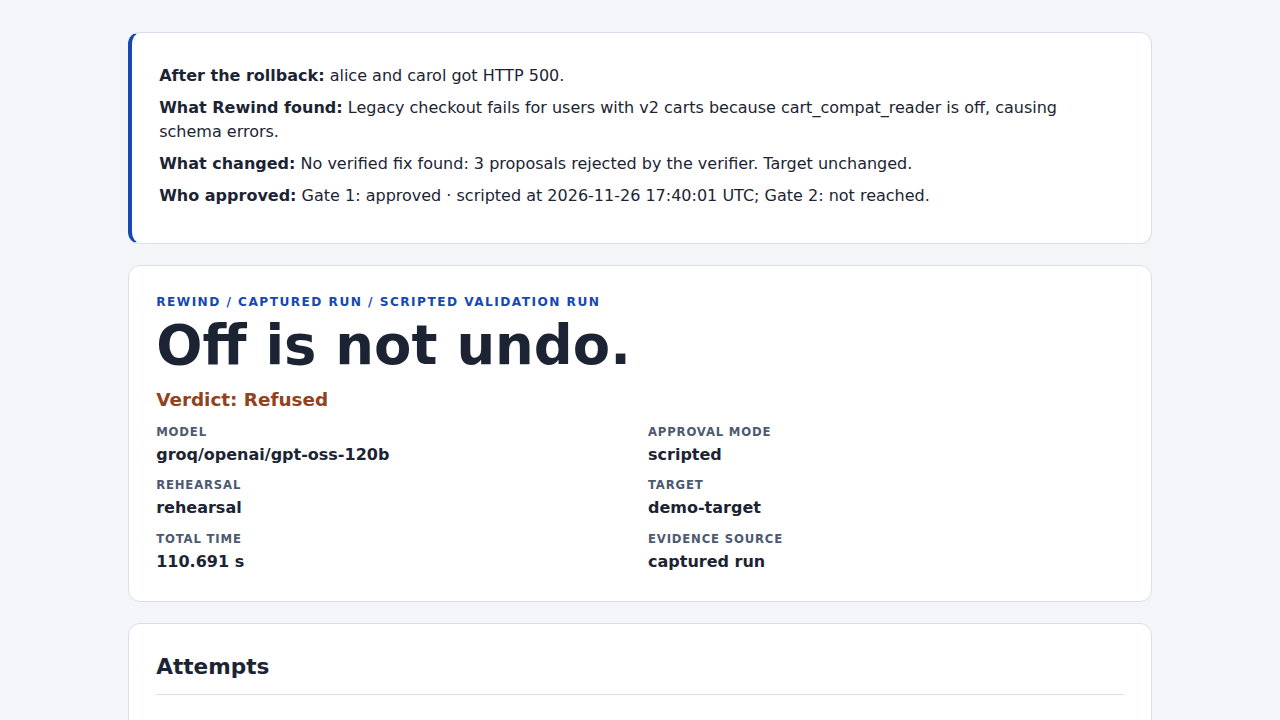
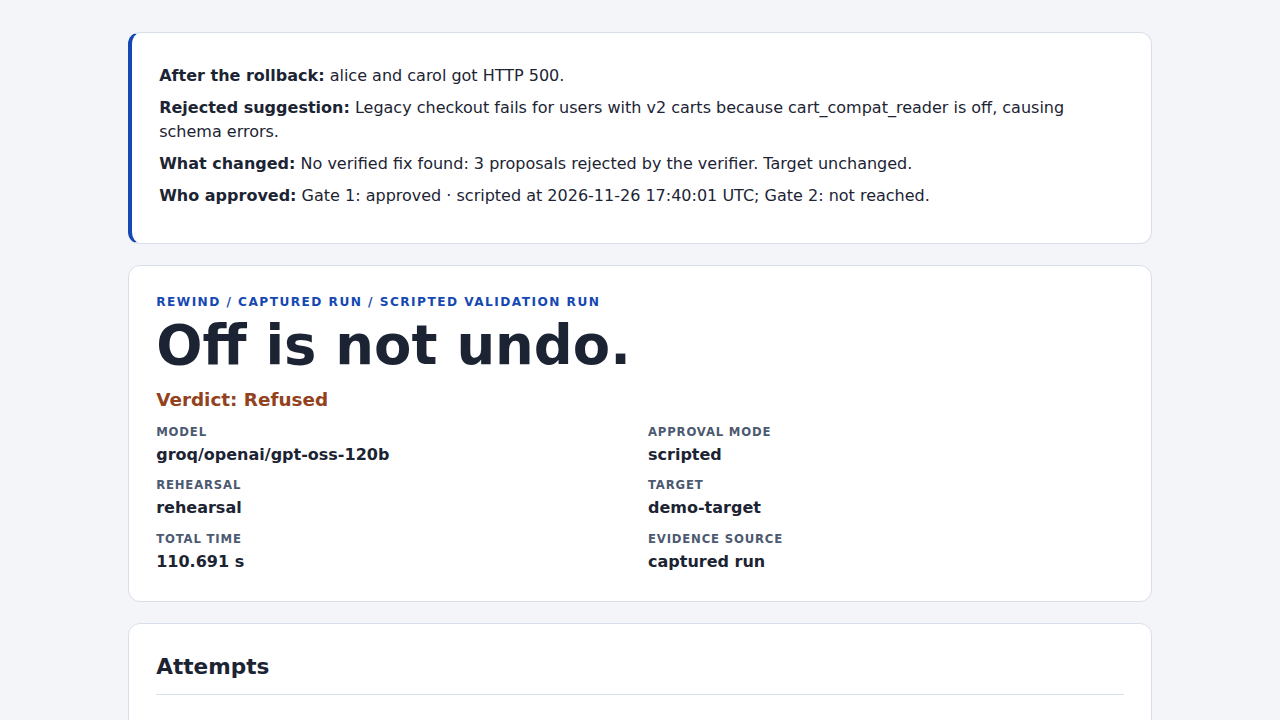
feat(display): replay Case B and label rejected suggestions

Changed region(s): [[0.125, 0.1222, 0.8438, 0.1833]]

diff --git a/docs/sample-report-refusal.html b/docs/sample-report-refusal.html
@@ -47,11 +47,11 @@ summary { cursor:pointer; font-weight:650; }
   .pair { grid-template-columns:minmax(0,1fr); }
 }
 </style></head><body><main>
-<section class="summary-card" aria-label="Run summary"><p><strong>After the rollback:</strong> alice and carol got HTTP 500.</p><p><strong>What Rewind found:</strong> Legacy checkout fails for users with v2 carts because cart_compat_reader is off, causing schema errors.</p><p><strong>What changed:</strong> No verified fix found: 3 proposals rejected by the verifier. Target unchanged.</p><p><strong>Who approved:</strong> Gate 1: approved · scripted at 2026-11-26 17:40:01 UTC; Gate 2: not reached.</p></section>
+<section class="summary-card" aria-label="Run summary"><p><strong>After the rollback:</strong> alice and carol got HTTP 500.</p><p><strong>Rejected suggestion:</strong> Legacy checkout fails for users with v2 carts because cart_compat_reader is off, causing schema errors.</p><p><strong>What changed:</strong> No verified fix found: 3 proposals rejected by the verifier. Target unchanged.</p><p><strong>Who approved:</strong> Gate 1: approved · scripted at 2026-11-26 17:40:01 UTC; Gate 2: not reached.</p></section>
 <header><p class="eyebrow">REWIND / captured run / scripted validation run</p><h1>Off is not undo.</h1>
 <p class="verdict ">Verdict: Refused</p><dl class="facts"><div><dt>Model</dt><dd>groq/openai/gpt-oss-120b</dd></div><div><dt>Approval mode</dt><dd>scripted</dd></div><div><dt>Rehearsal</dt><dd>rehearsal</dd></div><div><dt>Target</dt><dd>demo-target</dd></div><div><dt>Total time</dt><dd>110.691 s</dd></div><div><dt>Evidence source</dt><dd>captured run</dd></div></dl></header>
 
-<section><h2>Attempts</h2><article class="attempt"><h3>Attempt 1 · Failed verification</h3><p><strong>Diagnosis:</strong> Legacy checkout fails for VIP users because cart_compat_reader is off, causing unrecognized cart schema for v2 carts.</p><p><strong>Proposed change:</strong> cart_compat_reader: set override ON for segment vip_users</p><p><strong>Result:</strong> alice checkout returned HTTP 500 (legacy). status=500, error=Unrecognized cart schema</p><p><strong>Verifier:</strong> FAIL (verify): 10 failed assertion(s); first=alice/direct_http_status_200 (Expected HTTP 200, got 500)</p></article><article class="attempt"><h3>Attempt 2 · Failed verification</h3><p><strong>Diagnosis:</strong> Legacy checkout fails for users with v2 carts because cart_compat_reader is off, causing schema errors.</p><p><strong>Proposed change:</strong> cart_compat_reader: set default ON</p><p><strong>Result:</strong> alice checkout returned HTTP 500 (legacy). status=500, error=Unrecognized cart schema</p><p><strong>Verifier:</strong> FAIL (verify): 10 failed assertion(s); first=alice/direct_http_status_200 (Expected HTTP 200, got 500)</p></article><article class="attempt"><h3>Attempt 3 · Failed verification</h3><p><strong>Diagnosis:</strong> Legacy checkout fails for users with v2 carts because cart_compat_reader is off, causing schema errors.</p><p><strong>Proposed change:</strong> cart_compat_reader: set default ON</p><p><strong>Result:</strong> alice checkout returned HTTP 500 (legacy). status=500, error=Unrecognized cart schema</p><p><strong>Verifier:</strong> FAIL (verify): 10 failed assertion(s); first=alice/direct_http_status_200 (Expected HTTP 200, got 500)</p></article></section>
+<section><h2>Attempts</h2><article class="attempt"><h3>Attempt 1 · Failed verification</h3><p><strong>Rejected suggestion:</strong> Legacy checkout fails for VIP users because cart_compat_reader is off, causing unrecognized cart schema for v2 carts.</p><p><strong>Proposed change:</strong> cart_compat_reader: set override ON for segment vip_users</p><p><strong>Result:</strong> alice checkout returned HTTP 500 (legacy). status=500, error=Unrecognized cart schema</p><p><strong>Verifier:</strong> FAIL (verify): 10 failed assertion(s); first=alice/direct_http_status_200 (Expected HTTP 200, got 500)</p></article><article class="attempt"><h3>Attempt 2 · Failed verification</h3><p><strong>Rejected suggestion:</strong> Legacy checkout fails for users with v2 carts because cart_compat_reader is off, causing schema errors.</p><p><strong>Proposed change:</strong> cart_compat_reader: set default ON</p><p><strong>Result:</strong> alice checkout returned HTTP 500 (legacy). status=500, error=Unrecognized cart schema</p><p><strong>Verifier:</strong> FAIL (verify): 10 failed assertion(s); first=alice/direct_http_status_200 (Expected HTTP 200, got 500)</p></article><article class="attempt"><h3>Attempt 3 · Failed verification</h3><p><strong>Rejected suggestion:</strong> Legacy checkout fails for users with v2 carts because cart_compat_reader is off, causing schema errors.</p><p><strong>Proposed change:</strong> cart_compat_reader: set default ON</p><p><strong>Result:</strong> alice checkout returned HTTP 500 (legacy). status=500, error=Unrecognized cart schema</p><p><strong>Verifier:</strong> FAIL (verify): 10 failed assertion(s); first=alice/direct_http_status_200 (Expected HTTP 200, got 500)</p></article></section>
 <section><h2>Approvals</h2><article class="gate"><h3>Gate 1 · Rehearsal permission</h3><p>approved · scripted · scripted (validation harness)</p><p>When: 2026-11-26 17:40:01 UTC · Environment: rehearsal</p><details><summary>Recorded approval details</summary><pre>Write only to rehearsal using &lt;checkout&gt;/.artifacts/run-20261126T174001661338Z/rehearsal.db. Reset and replay the synthetic journey.
 Rollback: (&#x27;checkout_v2&#x27;, &#x27;environment_default&#x27;, &#x27;set_off&#x27;); up to 3 proposed writes and baseline restores between attempts.
 Budget: 3 rollbacks + 3 proposals + 4 restoration writes + 1 margin.

diff --git a/rewind/report/data.py b/rewind/report/data.py
@@ -10,6 +10,7 @@ from datetime import datetime, timezone
 
 
 VERDICTS = {"verified": "Verified", "refused": "Refused", "stopped": "Stopped", "approval_denied": "Denied"}
+REJECTED_SUGGESTION = "Rejected suggestion"
 _AUTH_OR_KEY = re.compile(
     r"https?://[^\s\"'<>]*(?:oauth|authorize|login|auth/|[?&](?:token|key|code)=)[^\s\"'<>]*|"
     r"\b(?:Bearer|Basic)\s+[^\s,;]+|\b(?:sk-|gsk_|AIza|ghp_|github_pat_|ser\.|AQ\.)[A-Za-z0-9_.-]{8,}", re.IGNORECASE,
@@ -79,6 +80,17 @@ def _proposal(attempt: dict) -> dict | None:
     return None
 
 
+def _attempt(attempt: dict) -> dict:
+    proposal = _proposal(attempt)
+    label = "Diagnosis"
+    if proposal and attempt.get("status") in {"failed", "invalid"}:
+        label = REJECTED_SUGGESTION
+    elif attempt.get("status") == "no_fix":
+        label = "Why Rewind stopped"
+    return {**_fields(attempt, "number", "status", "reason"), "proposal": proposal, "suggestion_label": label,
+            "verification": _fields(attempt.get("verification") or {}, "ok", "summary")}
+
+
 def _observation(step: dict, allowed: frozenset[str]) -> dict:
     return {**_fields(step, "name", "step", "user", "http_status", "executed_version"),
             "effective_flags": {flag: value for flag, value in (step.get("effective_flags") or {}).items() if flag in allowed}}
@@ -119,7 +131,7 @@ def _people(names: list[str]) -> str:
     return names[0] if len(names) == 1 else ", ".join(names[:-1]) + " and " + names[-1]
 
 
-def summary_lines(data: dict) -> tuple[str, str, str, str]:
+def _summary(data: dict) -> tuple[tuple[str, str], ...]:
     failure = rollback_failure(data["transitions"])
     observed = "No failed rollback was recorded."
     if failure:
@@ -138,10 +150,15 @@ def summary_lines(data: dict) -> tuple[str, str, str, str]:
             observations.append(f"{_people(new_checkout)} still ran the new checkout")
         observed = "; ".join(observations) + "." if observations else "The recorded journey did not pass."
     attempts = data["attempts"]
-    found = next((attempt["proposal"]["diagnosis"] for attempt in reversed(attempts)
-                  if (attempt.get("proposal") or {}).get("diagnosis")), None)
-    if found is None:
-        found = next((attempt.get("reason") for attempt in reversed(attempts) if attempt.get("status") == "no_fix"), None)
+    label, found = "Diagnosis", "No diagnosis recorded."
+    for attempt in reversed(attempts):
+        diagnosis = (attempt.get("proposal") or {}).get("diagnosis")
+        if attempt.get("status") == "no_fix":
+            diagnosis = attempt.get("reason")
+        if diagnosis:
+            label = "What Rewind found" if attempt.get("status") == "verified" else attempt["suggestion_label"]
+            found = diagnosis
+            break
 
     changed = "No target flag change was applied."
     if data["status"] == "refused":
@@ -171,7 +188,8 @@ def summary_lines(data: dict) -> tuple[str, str, str, str]:
         else:
             detail = f"{decision or 'approved'} · {detail}"
         approvals.append(f"Gate {gate['gate']}: {detail}")
-    return observed, found or "No diagnosis recorded.", changed, "; ".join(approvals) + "."
+    return (("After the rollback", observed), (label, found), ("What changed", changed),
+            ("Who approved", "; ".join(approvals) + "."))
 
 
 def public_report(run: dict, *, captured: bool = False, allowed_flags: Iterable[str] | None = None) -> dict:
@@ -196,9 +214,7 @@ def public_report(run: dict, *, captured: bool = False, allowed_flags: Iterable[
             "failed_assertions": [_fields(item, "user", "step", "assertion", "detail")
                                   for item in event.get("failed_assertions", [])],
         } for event in run.get("transitions", [])],
-        "attempts": [{**_fields(attempt, "number", "status", "reason"), "proposal": _proposal(attempt),
-                      "verification": _fields(attempt.get("verification") or {}, "ok", "summary")}
-                     for attempt in run.get("attempts", [])],
+        "attempts": [_attempt(attempt) for attempt in run.get("attempts", [])],
         "approvals": [
             _approval(approval_log[gate])
             if gate in approval_log else {"gate": gate, "status": "not reached"} for gate in (1, 2)
@@ -211,5 +227,7 @@ def public_report(run: dict, *, captured: bool = False, allowed_flags: Iterable[
                    "Rewind tests configuration-only recovery; it does not undo a database migration or rewrite app code.",
                    "Unreached approvals, missing snapshots, and failed checks do not establish target safety."],
     }, secrets)
-    data["summary_lines"] = list(summary_lines(data))
+    summary = _summary(data)
+    data["summary_labels"] = [label for label, _ in summary]
+    data["summary_lines"] = [line for _, line in summary]
     return data

diff --git a/tests/test_demo.py b/tests/test_demo.py
@@ -1,4 +1,4 @@
-"""Both captures replay through the real renderer without credentials or networking."""
+"""Captures replay through the real renderer without credentials or networking."""
 
 import json
 import os
@@ -10,8 +10,12 @@ import pytest
 from rewind import cli, demo
 
 
-@pytest.mark.parametrize("args, status", [(["demo"], "verified"), (["demo", "--case", "refusal"], "refused")])
-def test_demo_offline_with_environment_cleared(tmp_path, monkeypatch, capsys, args, status):
+@pytest.mark.parametrize("args, case, status", [
+    (["demo"], "case-a", "verified"),
+    (["demo", "--case", "b"], "case-b", "verified"),
+    (["demo", "--case", "refusal"], "refusal", "refused"),
+])
+def test_demo_offline_with_environment_cleared(tmp_path, monkeypatch, capsys, args, case, status):
     monkeypatch.chdir(tmp_path)
     waits = []
     monkeypatch.setattr(demo.time, "sleep", waits.append)
@@ -29,16 +33,19 @@ def test_demo_offline_with_environment_cleared(tmp_path, monkeypatch, capsys, ar
     output = capsys.readouterr().out
     assert "captured run | Report:" in output
     assert "Gate 1 — captured, scripted approval" in output
-    assert "Diagnosis:" in output and "verify before recovery" in output
+    assert "verify before recovery" in output
     if status == "verified":
+        assert "Diagnosis:" in output and "Rejected suggestion:" not in output
         assert "Gate 2 — captured, scripted approval" in output
         assert "Target: verify after recovery" in output
     else:
+        assert output.count("Rejected suggestion:") == 3 and "Diagnosis:" not in output
         assert "Gate 2 — not reached in this captured run" in output
         assert "No verified configuration-only recovery found. Target unchanged." in output
     report = next((tmp_path / ".artifacts").glob("demo-*/report.html"))
     assert "captured run" in report.read_text()
     data = json.loads(report.with_suffix(".json").read_text())
     assert data["status"] == status and data["source"] == "captured run"
+    assert data["capture"]["case"] == case
     assert f"captured run | Report: {report.relative_to(tmp_path)}" in output
     assert str(report) not in output and "https://" not in output

diff --git a/rewind/demo.py b/rewind/demo.py
@@ -10,24 +10,10 @@ from typing import Callable
 from rich.console import Console
 
 from rewind.report import ReportError, write_report
-from rewind.report.data import describe_write
-from rewind.report.terminal import RunConsole, captured_screen, plain_output
+from rewind.report.terminal import RunConsole, attempt_display, captured_screen, plain_output
 
 
 REPLAY_SECONDS = 9.0
-
-
-def _diagnosis(attempt: dict) -> str:
-    proposal = attempt.get("proposal") or {}
-    reason = attempt.get("reason")
-    diagnosis = proposal.get("diagnosis") or reason or "Not recorded"
-    result = f"Attempt {attempt['number']} · Diagnosis: {diagnosis}"
-    if proposal:
-        operation = describe_write(*(str(proposal.get(field, "—")) for field in ("flag", "scope", "operation")))
-        result += f"\nProposed change: {operation}"
-    if reason and reason != diagnosis:
-        result += f"\nResult: {reason}"
-    return result
 
 
 def _events(data: dict, width: int) -> list[str]:
@@ -44,8 +30,8 @@ def _events(data: dict, width: int) -> list[str]:
             if transition["label"].endswith("verify before recovery"):
                 attempt = next(attempts, None)
                 if attempt is not None:
-                    events.append(_diagnosis(attempt))
-    events.extend(_diagnosis(attempt) for attempt in attempts)
+                    events.append(attempt_display(attempt))
+    events.extend(attempt_display(attempt) for attempt in attempts)
     events.append(captured_screen(data["approvals"][1], data["target"]["before"], width=width))
     events.extend(target_events)
     return events
@@ -55,7 +41,7 @@ def replay(
     case: str, repository: Path, output_root: Path, *,
     console: Console | None = None, sleep: Callable[[float], None] | None = None,
 ) -> Path:
-    capture_name = {"a": "case-a", "refusal": "refusal"}[case]
+    capture_name = {"a": "case-a", "b": "case-b", "refusal": "refusal"}[case]
     source = repository / "docs" / "captured-runs" / capture_name / "run.json"
     if not source.is_file():
         raise ReportError("Captured run is missing; use the repository checkout with docs/captured-runs")

diff --git a/tests/test_cli.py b/tests/test_cli.py
@@ -7,6 +7,8 @@ from pathlib import Path
 import subprocess
 import sys
 
+import pytest
+
 from rewind import cli
 
 
@@ -48,7 +50,8 @@ def test_cli_seed_rejects_target_environment(monkeypatch, capsys) -> None:
     assert "cannot mutate target" in err.lower()
 
 
-def test_cli_check_delegates_and_writes_reports(tmp_path, monkeypatch, capsys) -> None:
+@pytest.mark.parametrize("status, exit_code", [("verified", 0), ("refused", 1)])
+def test_cli_check_delegates_and_writes_reports(tmp_path, monkeypatch, capsys, status, exit_code) -> None:
     from rewind.orchestrator import CheckResult
 
     monkeypatch.chdir(tmp_path)
@@ -60,12 +63,17 @@ def test_cli_check_delegates_and_writes_reports(tmp_path, monkeypatch, capsys) -
         assert isinstance(console, RunConsole)
         calls.append((config.config_path, root))
         recorded = root / "run.json"
-        recorded.write_text('{"status":"verified","approval_mode":"scripted"}')
-        return CheckResult("verified", recorded)
+        recorded.write_text(json.dumps({"status": status, "approval_mode": "scripted", "attempts": [{
+            "number": 1, "status": "failed" if status == "refused" else "verified", "reason": "The verifier rejected the change",
+            "proposal": {"diagnosis": "Change a flag setting", "flag": "feature", "scope": "environment_default", "operation": "set_on"},
+        }]}))
+        return CheckResult(status, recorded)
 
     monkeypatch.setattr("rewind.orchestrator.run_check", fake_check)
     config = REPO_ROOT / "examples/demo-shop/rewind.config.yaml"
-    assert cli.main(["check", "--config", str(config)]) == 0
+    assert cli.main(["check", "--config", str(config)]) == exit_code
     assert calls == [(config, tmp_path)]
     assert (tmp_path / "report.html").is_file() and (tmp_path / "report.json").is_file()
-    assert "Report:" in capsys.readouterr().out
+    output = capsys.readouterr().out
+    assert "Report:" in output
+    assert ("Rejected suggestion: Change a flag setting" in output) == (status == "refused")

diff --git a/rewind/cli.py b/rewind/cli.py
@@ -19,7 +19,7 @@ def build_parser() -> argparse.ArgumentParser:
     check_p.add_argument("--config", required=True, help="Path to rewind.config.yaml")
 
     demo_p = sub.add_parser("demo", help="Replay a captured run offline")
-    demo_p.add_argument("--case", choices=["a", "refusal"], default="a", help="Capture to replay (default: Case A)")
+    demo_p.add_argument("--case", choices=["a", "b", "refusal"], default="a", help="Capture to replay (default: Case A)")
 
     seed_p = sub.add_parser("seed", help="Seed Flagsmith baseline state")
     seed_p.add_argument("--case", choices=["a", "b", "refusal"], required=True)
@@ -38,14 +38,20 @@ def main(argv: list[str] | None = None) -> int:
         from rewind.config import ConfigError, load_config
         from rewind.orchestrator import RunError, run_check
         from rewind.report import ReportError, write_report
-        from rewind.report.terminal import RunConsole, plain_output
+        from rewind.report.data import REJECTED_SUGGESTION
+        from rewind.report.terminal import RunConsole, attempt_display, plain_output
 
         root = Path.cwd()
         try:
             load_dotenv(root / ".env", override=False)
             config = load_config(args.config)
-            result = run_check(config, root, console=RunConsole())
-            report, _ = write_report(result.evidence, allowed_flags=config.allowed.flags)
+            console = RunConsole()
+            result = run_check(config, root, console=console)
+            report, data = write_report(result.evidence, allowed_flags=config.allowed.flags)
+            if data["status"] == "refused":
+                for attempt in data["attempts"]:
+                    if attempt["suggestion_label"] == REJECTED_SUGGESTION:
+                        console.print(attempt_display(attempt), markup=False, highlight=False)
             print(f"Report: {report}")
             return result.exit_code
         except (ConfigError, RunError, ReportError) as exc:

diff --git a/rewind/report/__init__.py b/rewind/report/__init__.py
@@ -112,7 +112,8 @@ def _attempt_cards(attempts: list[dict]) -> str:
         diagnosis = proposal.get("diagnosis") or (reason if attempt.get("status") == "no_fix" else None)
         result = attempt["verification"].get("summary")
         cards.append(f'<article class="attempt"><h3>Attempt {_text(attempt["number"])} · {_text(title)}</h3>'
-                     f"<p><strong>Diagnosis:</strong> {_text(diagnosis)}</p><p><strong>Proposed change:</strong> {_text(proposed)}</p>"
+                     f"<p><strong>{_text(attempt['suggestion_label'])}:</strong> {_text(diagnosis)}</p>"
+                     f"<p><strong>Proposed change:</strong> {_text(proposed)}</p>"
                      f"<p><strong>Result:</strong> {_text(reason)}</p>"
                      + (f"<p><strong>Verifier:</strong> {_text(result)}</p>" if result and result != reason else "") + "</article>")
     return "".join(cards) or '<p class="muted">The agent did not submit an attempt.</p>'
@@ -195,7 +196,7 @@ def render_html(data: dict) -> str:
     eyebrow = f"REWIND / {data['source']}" + (f" / {capture_label}" if capture_label else "")
     status_class = "verified" if data["status"] == "verified" else ""
     summary = "".join(f"<p><strong>{_text(label)}:</strong> {_text(line)}</p>" for label, line in zip(
-        ("After the rollback", "What Rewind found", "What changed", "Who approved"), data["summary_lines"]))
+        data["summary_labels"], data["summary_lines"]))
     return f"""<!doctype html>
 <html lang="en"><head><meta charset="utf-8"><meta name="viewport" content="width=device-width, initial-scale=1">
 <meta name="color-scheme" content="light dark"><meta http-equiv="Content-Security-Policy" content="default-src 'none'; style-src 'unsafe-inline'">

diff --git a/tests/test_report.py b/tests/test_report.py
@@ -57,6 +57,8 @@ def test_captured_reports_keep_every_transition_user_and_change(tmp_path, case, 
         assert "Unrecognized cart schema" in html
         assert "set override ON for segment vip_users" in html
         assert "No verified fix found: 3 proposals rejected by the verifier. Target unchanged." in summary
+        assert "Rejected suggestion:" in summary and "What Rewind found" not in html
+        assert html.count("Rejected suggestion:") == 4
     if case == "case-b":
         assert "delete override for segment vip_users" in html
         assert "alice and carol still ran the new checkout" in summary
@@ -91,6 +93,7 @@ def test_rejected_proposal_is_recovered_from_audit_and_escaped(tmp_path, monkeyp
     output, data = write_report(source)
     html = output.read_text()
     assert "REJECTED" in html and "Scope not allowed" in html and "set override OFF for identity user" in html
+    assert "Rejected suggestion:" in html and "What Rewind found" not in html
     assert "&lt;script&gt;FIX&lt;/script&gt;" in html and "<script>FIX</script>" not in html
     assert data["attempts"][0]["proposal"]["diagnosis"].endswith("<REDACTED> <REDACTED>")
     assert all(value not in html and value not in output.with_suffix(".json").read_text() for value in (secret, url))

diff --git a/rewind/report/terminal.py b/rewind/report/terminal.py
@@ -21,6 +21,19 @@ _STAGE = re.compile(r"^\s*\d+\. (baseline setup|rollback|recovery):")
 _WORDS = {"set_on": "Switch on", "set_off": "Switch off", "delete_override": "Remove override"}
 
 
+def attempt_display(attempt: dict) -> str:
+    proposal = attempt.get("proposal") or {}
+    reason = attempt.get("reason")
+    diagnosis = proposal.get("diagnosis") or reason or "Not recorded"
+    result = f"Attempt {attempt['number']} · {attempt['suggestion_label']}: {diagnosis}"
+    if proposal:
+        operation = describe_write(*(str(proposal.get(field, "—")) for field in ("flag", "scope", "operation")))
+        result += f"\nProposed change: {operation}"
+    if reason and reason != diagnosis:
+        result += f"\nResult: {reason}"
+    return result
+
+
 def _change_line(change: dict) -> str:
     if change.get("kind") == "flag" and all(key in change for key in ("flag", "scope", "operation")):
         action = describe_write(change["flag"], change["scope"], change["operation"])

diff --git a/rewind/__main__.py b/rewind/__main__.py
@@ -1,0 +1,7 @@
+"""Run the same CLI via python -m rewind."""
+
+from rewind.cli import main
+
+
+if __name__ == "__main__":
+    raise SystemExit(main())
